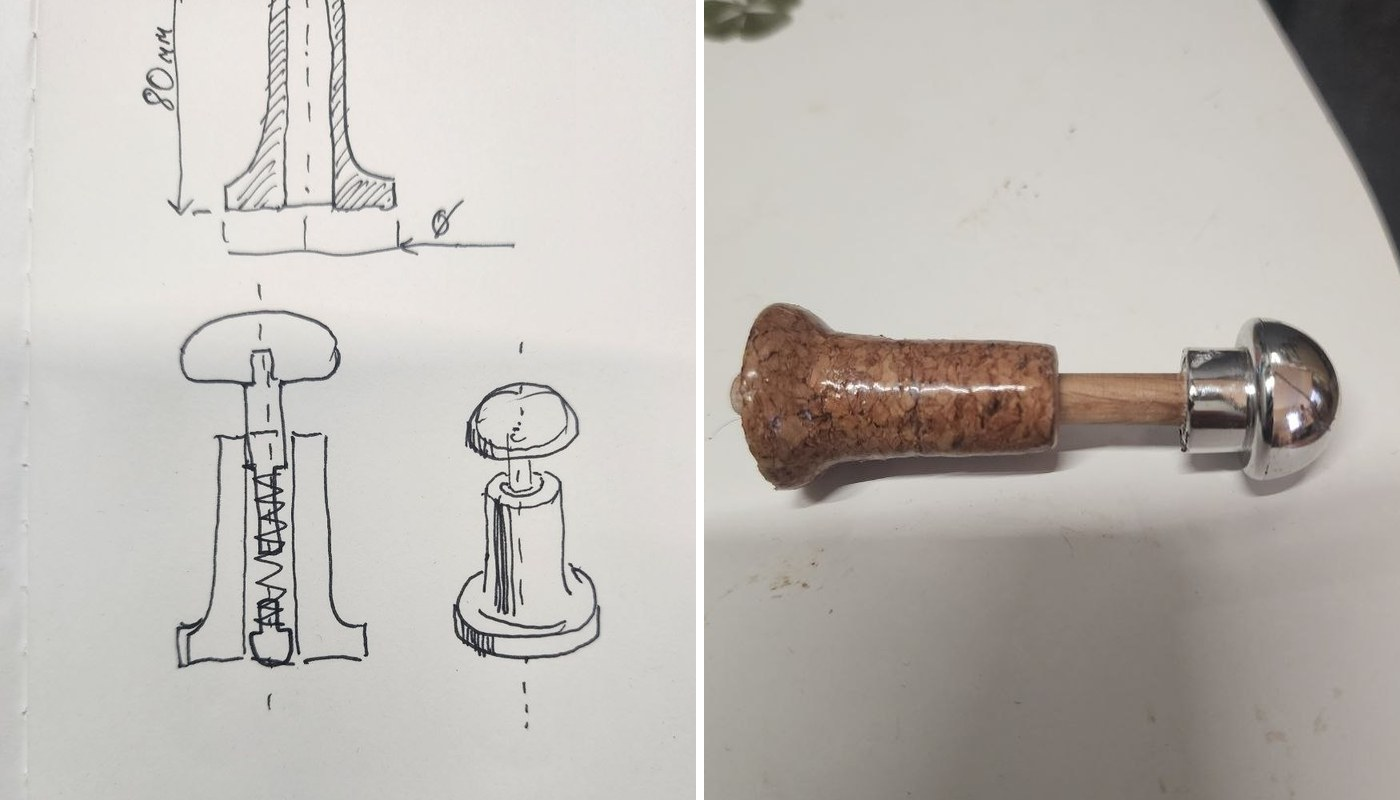
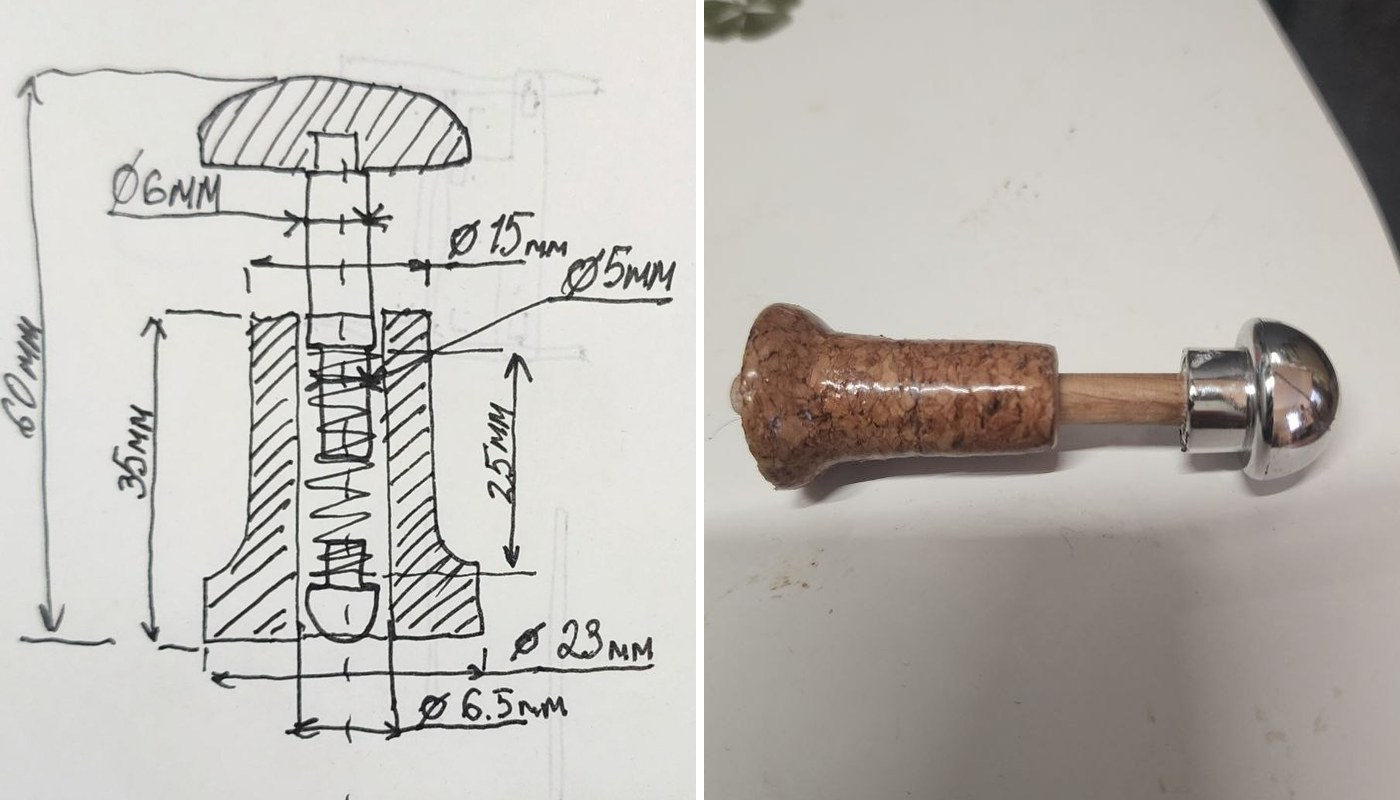
Use the dimensioned drawing for the actuator collage and carousel
Replace the loose sketch in the card collage with the fully dimensioned
section, and add it to the carousel ahead of the earlier studies.

Correct the height in the write-up: the dimensioned drawing gives 60 mm
overall, not the 80 mm read off the earlier sketch. Carry the rest of
the dimensions in as well, and call out the half-millimetre clearance
between shaft and bore, which is what keeps the plunger sliding when the
push arrives off-axis.

diff --git a/script.js b/script.js
@@ -249,7 +249,7 @@
     'kettle-actuator': {
       year: '2026 · in use',
       title: 'Accessible Button Actuator — Zojirushi Water Boiler',
-      desc: '<h4>Motivation</h4><p>The Zojirushi CV-DCC dispenses water only while an unlock button is held and a second dispense button is pressed. Both are small, nearly flush with the lid, and set close together, so operating them means placing a fingertip accurately and holding a sustained press. For someone with limited finger mobility or painful joints that combination — small target, precise placement, force delivered through a fingertip — is what makes the appliance hard to use without help.</p><h4>The problem</h4><p>The difficulty is not that the buttons are stiff. It is that they demand precision and a fine pinch-type movement. Any fix that only reduces the force needed leaves the accuracy requirement in place, so the design had to change what kind of movement operates the appliance, not just how hard it is.</p><h4>Design</h4><ul><li>A first prototype extended each button upward with a dowel, a foam grip and a bead, purely to test height, spacing and reach in place on the appliance before committing to a made part.</li><li>The working version is a spring-loaded plunger running in a turned barrel: a domed cap on a shaft, a compression spring around it, and a housing with a flared base that seats over the original button. Roughly 80 mm tall.</li><li>Raising the actuation point converts a fingertip press into a gross movement that can be made with a loose hand, a knuckle, or a closed fist.</li></ul><h4>Engineering decisions</h4><ul><li>The target is the problem, not the force. Enlarging the button into a raised cap means accuracy stops mattering — the hand no longer has to find a small flush target, so the movement can come from the arm rather than from the fingers.</li><li>The spring is there for feedback, not to reduce effort. A control you cannot feel is one you press too hard and hold too long. A defined spring travel with a clear response at the end of it tells the user the press has registered, without watching the appliance or pushing to the limit of the joint.</li><li>Height changes which joints do the work. Lifting the control above the lid lets the wrist stay neutral and the load fall on the arm and shoulder instead of the finger joints, which is where the pain is.</li><li>Built in materials that can be worked by hand — turned wood, cork and a stock compression spring — so the part could be fitted to the actual button positions and revised on the spot rather than driven from a drawing.</li></ul><h4>Materials</h4><p>Turned wood · Cork · Stock compression spring · Metal cap</p>',
+      desc: '<h4>Motivation</h4><p>The Zojirushi CV-DCC dispenses water only while an unlock button is held and a second dispense button is pressed. Both are small, nearly flush with the lid, and set close together, so operating them means placing a fingertip accurately and holding a sustained press. For someone with limited finger mobility or painful joints that combination — small target, precise placement, force delivered through a fingertip — is what makes the appliance hard to use without help.</p><h4>The problem</h4><p>The difficulty is not that the buttons are stiff. It is that they demand precision and a fine pinch-type movement. Any fix that only reduces the force needed leaves the accuracy requirement in place, so the design had to change what kind of movement operates the appliance, not just how hard it is.</p><h4>Design</h4><ul><li>A first prototype extended each button upward with a dowel, a foam grip and a bead, purely to test height, spacing and reach in place on the appliance before committing to a made part.</li><li>The working version is a spring-loaded plunger running in a turned barrel: a domed cap on a shaft, a compression spring around it, and a housing with a flared base that seats over the original button. 60 mm overall: a 35 mm body on a 23 mm base, with a 6 mm shaft running in a 6.5 mm bore.</li><li>Raising the actuation point converts a fingertip press into a gross movement that can be made with a loose hand, a knuckle, or a closed fist.</li></ul><h4>Engineering decisions</h4><ul><li>The target is the problem, not the force. Enlarging the button into a raised cap means accuracy stops mattering — the hand no longer has to find a small flush target, so the movement can come from the arm rather than from the fingers.</li><li>The spring is there for feedback, not to reduce effort. A control you cannot feel is one you press too hard and hold too long. A defined spring travel with a clear response at the end of it tells the user the press has registered, without watching the appliance or pushing to the limit of the joint.</li><li>Height changes which joints do the work. Lifting the control above the lid lets the wrist stay neutral and the load fall on the arm and shoulder instead of the finger joints, which is where the pain is.</li><li>The shaft runs in a bore half a millimetre larger than itself. That clearance is the whole difference between a plunger that slides under a loose, badly aimed push and one that binds when the load comes in at an angle — which is exactly how it will be loaded by the hand this is built for.</li><li>Built in materials that can be worked by hand — turned wood, cork and a stock compression spring — so the part could be fitted to the actual button positions and revised on the spot rather than driven from a drawing.</li></ul><h4>Materials</h4><p>Turned wood · Cork · Stock compression spring · Metal cap</p>',
       tags: ['Accessibility', 'Assistive Design', 'Ergonomics', 'Prototyping', 'Spring Mechanism', 'Woodturning'],
       img: 'assets/rd/kettle-actuator/collage.jpg',
       links: [],
@@ -258,7 +258,8 @@
         { src: 'assets/rd/kettle-actuator/parts.jpg', caption: 'Plunger and housing separated: the compression spring sits around the shaft, and the barrel is bored to guide it.' },
         { src: 'assets/rd/kettle-actuator/parts-detail.jpg', caption: 'Bore and flared base of the housing, which seats over the original button and spreads the load across the lid.' },
         { src: 'assets/rd/kettle-actuator/early-prototype.jpg', caption: 'First prototype in place on the CV-DCC — dowel, foam grip and bead, used to test height, spacing and reach before making a finished part.' },
-        { src: 'assets/rd/kettle-actuator/sketch-sections.jpg', caption: 'Design sketches: sectioned elevation carrying the 80 mm height and bore diameter, the spring and its travel, and a pictorial of the assembly.' },
+        { src: 'assets/rd/kettle-actuator/sketch-dimensioned.jpg', caption: 'Dimensioned section of the assembly: 60 mm overall on a 23 mm base, 35 mm body, 6 mm shaft in a 6.5 mm bore, with the spring and its 25 mm travel.' },
+        { src: 'assets/rd/kettle-actuator/sketch-sections.jpg', caption: 'Earlier section studies working out proportions and the spring travel, before the dimensions were fixed.' },
         { src: 'assets/rd/kettle-actuator/sketch-concept.jpg', caption: 'Early concept sketch working out the plunger, the spring and the flared base.' }
       ]
     },
